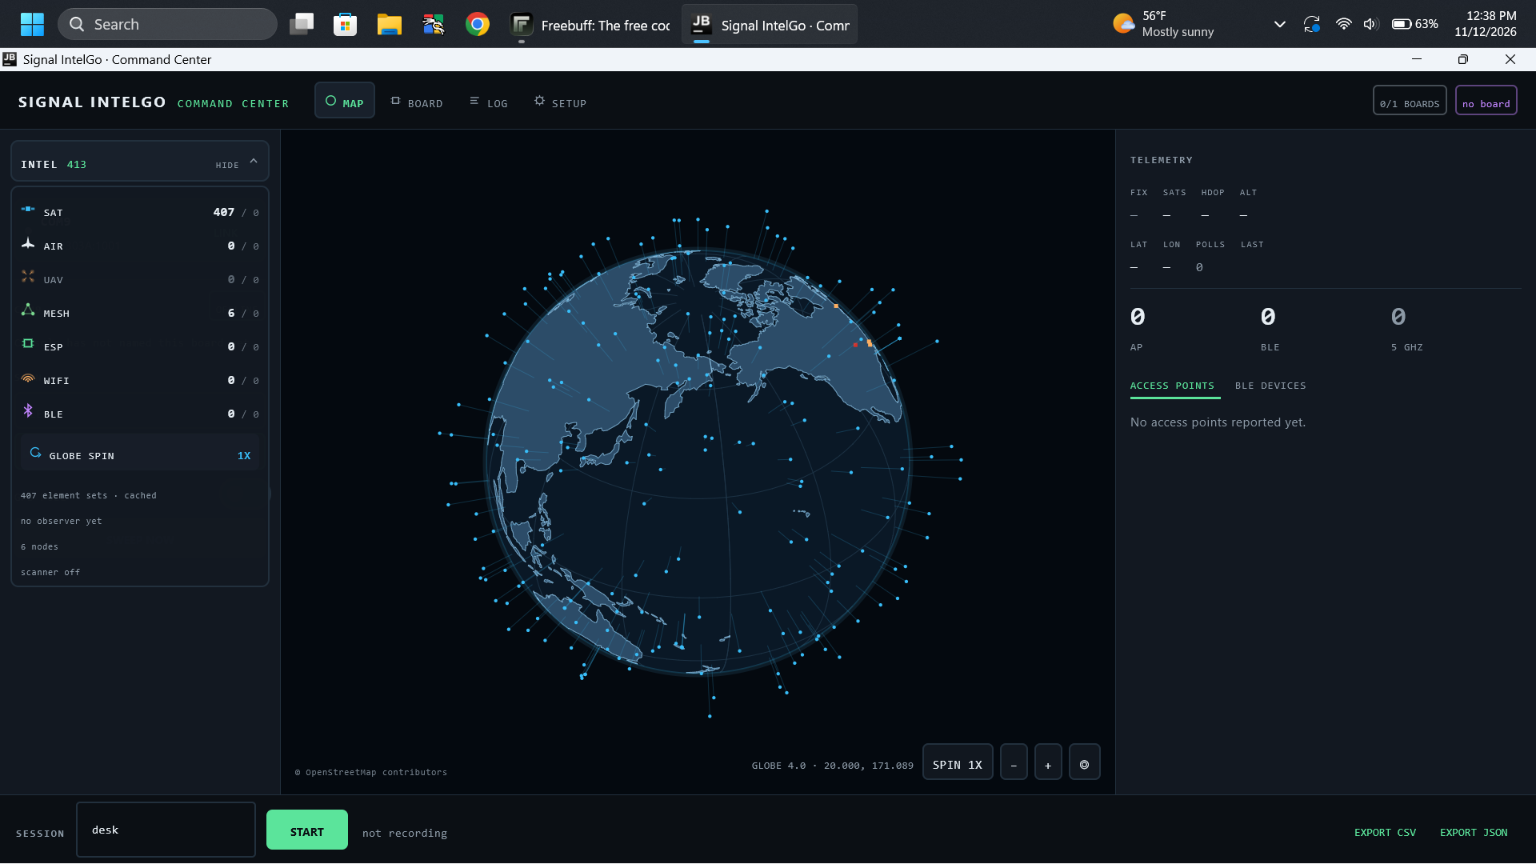
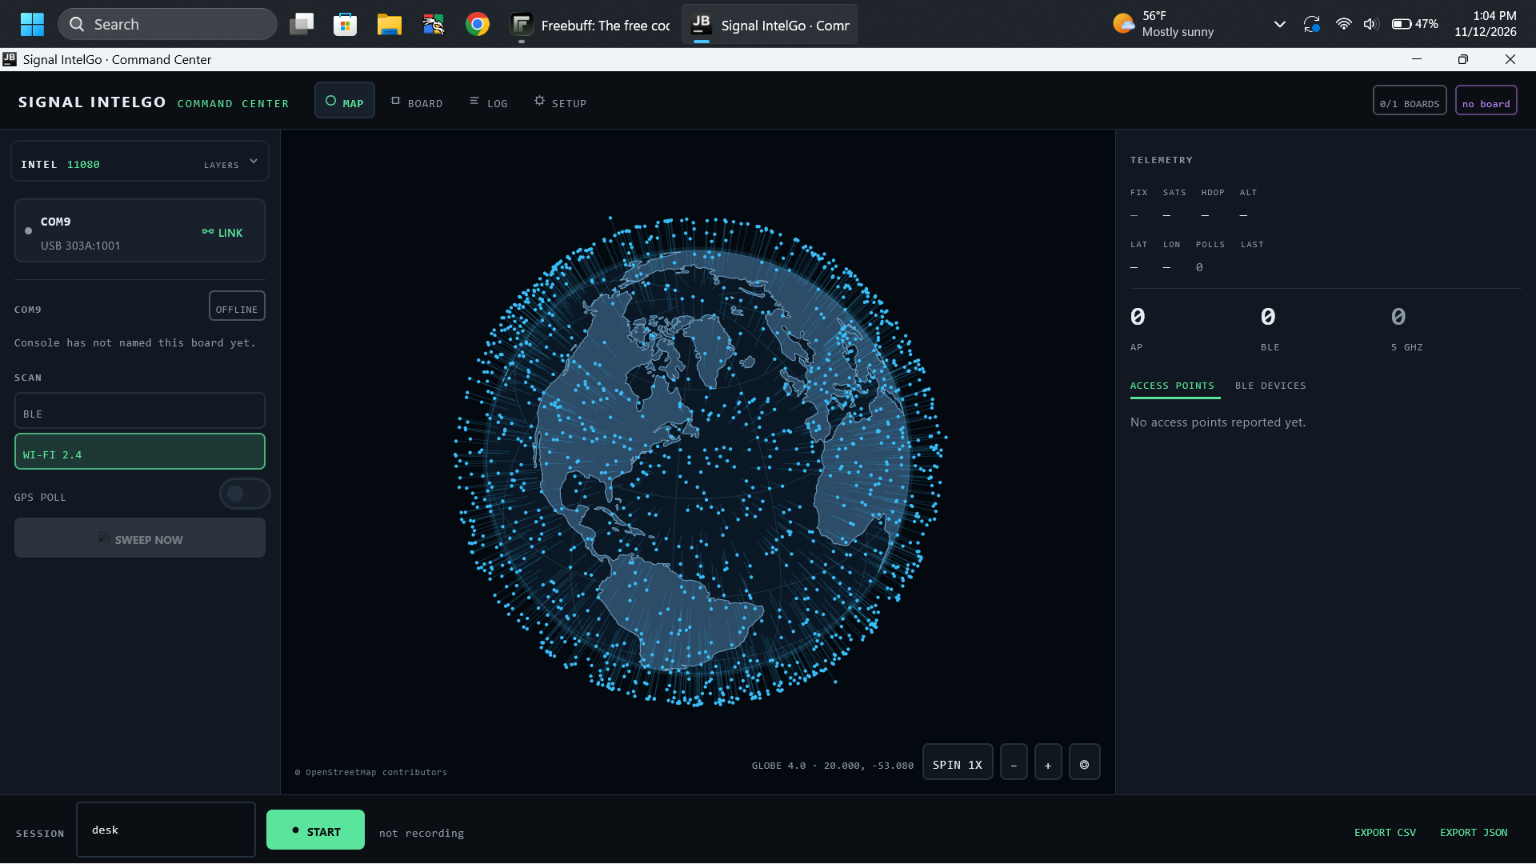
Carry the whole satellite catalogue on the desk, with the chips to reach it
The desk stopped at six CelesTrak groups, 407 element sets, while the app
reaches eleven thousand. It now opens with the app's named groups plus
starlink and cubesat - 11,080 objects - and SETUP offers ALL for the full
catalogue.

Three things had to be true for that to be usable. A refused group is no
longer cached as if it had arrived, so a throttled fetch is retried instead
of hiding for six hours. CelesTrak answers 403 both to bursts and to a
repeat of an unchanged download, so requests are spaced and the
constellation supplemental files are used as a fallback. And the map samples
the shell above three thousand markers in catalogue order and skips anything
off screen, so eleven thousand satellites still turn with the globe.

The rail and session controls carry glyphs too, drawn on canvas like the
layer rows.

🤖 Generated with Codebuff

diff --git a/shared/src/main/java/dev/skyward/rf/sky/SatTracker.kt b/shared/src/main/java/dev/skyward/rf/sky/SatTracker.kt
@@ -5,6 +5,7 @@ import dev.skyward.rf.core.Geo
 import dev.skyward.rf.core.LatLon
 import dev.skyward.rf.core.SatView
 import kotlinx.coroutines.Dispatchers
+import kotlinx.coroutines.delay
 import kotlinx.coroutines.withContext
 import kotlinx.serialization.Serializable
 import okhttp3.OkHttpClient
@@ -33,7 +34,16 @@ class SatTracker(
         private const val CACHE_FILE = "tle_cache_v1.json"
         private const val MAX_AGE_MS = 6 * 60 * 60 * 1000L
         private const val BASE = "https://celestrak.org/NORAD/elements/gp.php"
-        private val KNOWN_GROUPS = listOf("stations", "visual", "weather", "gps-ops", "science", "amateur")
+
+        /** The constellation files: same objects, served separately from the GP endpoint. */
+        private const val SUPPLEMENTAL = "https://celestrak.org/NORAD/elements/supplemental/sup-gp.php"
+        // `active` is CelesTrak's whole tracked catalogue (15,880 element sets when this was
+        // written); starlink and cubesat are the two named constellations that take the total
+        // past eleven thousand on their own. A host that wants the full sky asks for `active`.
+        private val KNOWN_GROUPS = listOf(
+            "stations", "visual", "weather", "gps-ops", "science", "amateur",
+            "starlink", "cubesat", "active",
+        )
 
         /**
          * ZARYA, the station core: NORAD 25544, catalogue 1998-067A. This is the International
@@ -143,29 +153,33 @@ class SatTracker(
         }
         val collected = ArrayList<CachedTle>()
         val errors = ArrayList<String>()
-        for (group in wanted) {
-            val url = "$BASE?GROUP=$group&FORMAT=tle"
-            val req = Request.Builder().url(url).header("User-Agent", "Signal_IntelGo/1.0 (wardriving)").build()
-            runCatching {
-                http.newCall(req).execute().use { resp ->
-                    if (!resp.isSuccessful) {
-                        errors.add("$group: HTTP ${resp.code}")
-                        return@use
-                    }
-                    val body = resp.body?.string().orEmpty()
-                    val parsed = parseTle(body)
-                    if (parsed.isEmpty()) errors.add("$group: empty") else collected.addAll(parsed)
-                }
-            }.onFailure { errors.add("$group: ${it.message ?: "network error"}") }
+        // CelesTrak's `active` group already contains every object in the named groups, and it asks
+        // that its service not be hammered: one catalogue request replaces nine.
+        val fetched = if ("active" in wanted) listOf("active") else wanted
+        val arrived = ArrayList<String>(fetched.size)
+        for ((index, group) in fetched.withIndex()) {
+            // CelesTrak publishes a one-request-per-second limit and answers 403 to a burst.
+            // Asking for eight groups at once is exactly that burst, so they go out spaced.
+            if (index > 0) delay(1_200)
+            val result = fetchGroup(group)
+            if (result.sats.isEmpty()) {
+                errors.add("$group: ${result.note}")
+            } else {
+                collected.addAll(result.sats)
+                arrived.add(group)
+            }
         }
         // BIRDS-3 by catalogue number: it is not a CelesTrak group, and a 404 for a decayed
         // object is the expected answer rather than an error worth showing.
         collected.addAll(fetchBirds3())
         if (collected.isNotEmpty()) {
             val deduped = collapseIss(collected.associateBy { it.noradId }.values.toList())
+            // Only the groups that actually arrived are recorded. Recording the request instead
+            // meant a throttled group was cached as if it were there, and the six hour freshness
+            // check then kept the missing satellites missing.
             cache = CacheFile(
                 fetchedAt = System.currentTimeMillis(),
-                groups = wanted,
+                groups = arrived,
                 sats = deduped,
             )
             store.write(CACHE_FILE, cache)
@@ -182,6 +196,41 @@ class SatTracker(
             )
         }
     }
+
+    /**
+     * One group's element sets, with the constellation files as a fallback.
+     *
+     * CelesTrak rate-limits exactly the group the desk most wants: `starlink` answers 403 on the
+     * GP endpoint while every other group answers 200, and the same data is published as a
+     * supplemental file. A refused group is asked for there before it is called a failure.
+     */
+    private fun fetchGroup(group: String): GroupResult {
+        val direct = httpGet("$BASE?GROUP=$group&FORMAT=tle")
+        if (direct.sats.isNotEmpty()) return GroupResult(direct.sats, "${direct.sats.size}")
+        val supplemental = httpGet("$SUPPLEMENTAL?FILE=$group&FORMAT=tle")
+        if (supplemental.sats.isNotEmpty()) return GroupResult(supplemental.sats, "${supplemental.sats.size} supplemental")
+        // Both answers are reported: "403 then 403" and "200 with nothing in it" are different
+        // problems, and the note is the only place an operator can see which one happened.
+        return GroupResult(emptyList(), "${direct.note} / supplemental ${supplemental.note}")
+    }
+
+    private data class GroupResult(val sats: List<CachedTle>, val note: String)
+
+    private data class HttpResult(val sats: List<CachedTle>, val note: String)
+
+    private fun httpGet(url: String): HttpResult = runCatching {
+        val req = Request.Builder().url(url)
+            .header("User-Agent", "Signal_IntelGo/1.0 (wardriving)")
+            .build()
+        http.newCall(req).execute().use { resp ->
+            if (!resp.isSuccessful) {
+                HttpResult(emptyList(), "HTTP ${resp.code}")
+            } else {
+                val parsed = parseTle(resp.body?.string().orEmpty())
+                HttpResult(parsed, if (parsed.isEmpty()) "HTTP 200, no TLEs" else "HTTP 200")
+            }
+        }
+    }.getOrElse { HttpResult(emptyList(), it.message ?: "network error") }
 
     /** Asks for the three BIRDS-3 objects by catalogue number; usually returns nothing. */
     private fun fetchBirds3(): List<CachedTle> {

diff --git a/desktop/src/main/java/dev/skyward/rf/desktop/ui/CommandCenter.kt b/desktop/src/main/java/dev/skyward/rf/desktop/ui/CommandCenter.kt
@@ -416,7 +416,11 @@ private fun SensorsRail(
             SectionLabel("SENSORS")
             Spacer(Modifier.weight(1f))
             TextButton(onClick = { host.refresh() }) {
-                Text("REFRESH", color = Desk.accent, fontSize = 11.sp, fontFamily = Desk.mono)
+                Row(verticalAlignment = Alignment.CenterVertically) {
+                    LayerIcon(Glyph.SPIN, Desk.accent, 10.dp)
+                    Spacer(Modifier.width(5.dp))
+                    Text("REFRESH", color = Desk.accent, fontSize = 11.sp, fontFamily = Desk.mono)
+                }
             }
         }
         Spacer(Modifier.height(6.dp))
@@ -464,7 +468,11 @@ private fun PortRow(board: BoardState, selected: Boolean, onClick: () -> Unit, h
                 )
             }
             TextButton(onClick = { if (board.connected) host.disconnect(board.path) else host.connect(board.path) }) {
-                Text(if (board.connected) "STOP" else "LINK", color = if (board.connected) Desk.warn else Desk.accent, fontSize = 11.sp)
+                Row(verticalAlignment = Alignment.CenterVertically) {
+                    LayerIcon(Glyph.LINK, if (board.connected) Desk.warn else Desk.accent, 11.dp)
+                    Spacer(Modifier.width(5.dp))
+                    Text(if (board.connected) "STOP" else "LINK", color = if (board.connected) Desk.warn else Desk.accent, fontSize = 11.sp)
+                }
             }
         }
     }
@@ -530,7 +538,11 @@ private fun ActiveBoardCard(board: BoardState?, host: SensorHost) {
             contentPadding = PaddingValues(horizontal = 12.dp, vertical = 6.dp),
             modifier = Modifier.fillMaxWidth(),
         ) {
-            Text("SWEEP NOW", fontSize = 11.sp, fontWeight = FontWeight.Bold)
+            Row(verticalAlignment = Alignment.CenterVertically) {
+                LayerIcon(Glyph.SWEEP, Desk.bg, 12.dp)
+                Spacer(Modifier.width(6.dp))
+                Text("SWEEP NOW", fontSize = 11.sp, fontWeight = FontWeight.Bold)
+            }
         }
         if (board.lastLine.isNotBlank()) {
             Spacer(Modifier.height(8.dp))
@@ -913,7 +925,9 @@ private fun SetupPane(modifier: Modifier, sky: DeskSky, skyState: DeskSky.State,
         SectionLabel("SATELLITE GROUPS")
         Spacer(Modifier.height(8.dp))
         Row {
-            listOf("stations", "visual", "weather", "gps-ops", "science", "amateur").forEach { group ->
+            // The app's whole list, including the two constellations that carry it past eleven
+            // thousand objects, plus CelesTrak's full catalogue as one switch.
+            listOf("stations", "visual", "weather", "gps-ops", "science", "amateur", "starlink", "cubesat", "active").forEach { group ->
                 val on = group in skyState.groups
                 Box(
                     Modifier
@@ -923,7 +937,12 @@ private fun SetupPane(modifier: Modifier, sky: DeskSky, skyState: DeskSky.State,
                         .clickable { sky.toggleGroup(group) }
                         .padding(horizontal = 10.dp, vertical = 6.dp),
                 ) {
-                    Text(group, color = if (on) Desk.cyan else Desk.dim, fontSize = 11.sp, fontFamily = Desk.mono)
+                    Text(
+                        if (group == "active") "ALL" else group,
+                        color = if (on) Desk.cyan else Desk.dim,
+                        fontSize = 11.sp,
+                        fontFamily = Desk.mono,
+                    )
                 }
             }
         }
@@ -1014,7 +1033,11 @@ private fun SessionBar(
             ),
             shape = RoundedCornerShape(6.dp),
         ) {
-            Text(if (liveSince == null) "START" else "STOP", fontSize = 11.sp, fontWeight = FontWeight.Bold)
+            Row(verticalAlignment = Alignment.CenterVertically) {
+                LayerIcon(Glyph.RECORD, if (liveSince == null) Desk.bg else Color.White, 10.dp)
+                Spacer(Modifier.width(6.dp))
+                Text(if (liveSince == null) "START" else "STOP", fontSize = 11.sp, fontWeight = FontWeight.Bold)
+            }
         }
         Spacer(Modifier.width(14.dp))
         Text(

diff --git a/desktop/src/main/java/dev/skyward/rf/desktop/ui/LayerIcons.kt b/desktop/src/main/java/dev/skyward/rf/desktop/ui/LayerIcons.kt
@@ -26,7 +26,10 @@ import kotlin.math.sin
  * a plane, a drone, a mesh, a board, Wi-Fi and Bluetooth - as strokes on a canvas, so a row can be
  * read at a glance without a font or an icon dependency.
  */
-enum class Glyph { SAT, AIR, UAV, MESH, ESP, WIFI, BLE, SPIN, CHEVRON, MAP, BOARD, LOG, SETUP }
+enum class Glyph {
+    SAT, AIR, UAV, MESH, ESP, WIFI, BLE, SPIN, CHEVRON, MAP, BOARD, LOG, SETUP,
+    LINK, SWEEP, RECORD, EXPORT,
+}
 
 @Composable
 fun LayerIcon(glyph: Glyph, color: Color, size: Dp = 14.dp, filled: Boolean = true) {
@@ -176,6 +179,46 @@ private fun DrawScope.drawGlyph(glyph: Glyph, color: Color, filled: Boolean) {
                 drawLine(color, Offset(cx - s * 0.32f, y), Offset(cx - s * 0.32f + s * f, y),
                     stroke.width * 0.9f, StrokeCap.Round)
             }
+        }
+
+        // Two ends meeting: the serial link.
+        Glyph.LINK -> {
+            drawRect(color, topLeft = Offset(cx - s * 0.44f, cy - s * 0.14f), size = Size(s * 0.26f, s * 0.28f), style = stroke)
+            drawRect(color, topLeft = Offset(cx + s * 0.18f, cy - s * 0.14f), size = Size(s * 0.26f, s * 0.28f), style = stroke)
+            drawLine(color, Offset(cx - s * 0.18f, cy), Offset(cx + s * 0.18f, cy), stroke.width * 0.9f)
+        }
+
+        // A sweep going out: three arcs and the beam.
+        Glyph.SWEEP -> {
+            val origin = Offset(cx - s * 0.3f, cy + s * 0.3f)
+            for (i in 1..3) {
+                val r = s * 0.28f * i
+                drawArc(
+                    color = color.copy(alpha = if (i == 1) 1f else 0.55f),
+                    startAngle = -90f,
+                    sweepAngle = 90f,
+                    useCenter = false,
+                    topLeft = Offset(origin.x - r, origin.y - r),
+                    size = Size(r * 2, r * 2),
+                    style = Stroke(width = stroke.width * 0.7f, cap = StrokeCap.Round),
+                )
+            }
+            drawLine(color, origin, Offset(origin.x + s * 0.34f, origin.y - s * 0.34f), stroke.width * 0.9f, StrokeCap.Round)
+        }
+
+        // A record dot.
+        Glyph.RECORD -> drawCircle(color, radius = s * 0.3f, center = Offset(cx, cy))
+
+        // An arrow leaving the box.
+        Glyph.EXPORT -> {
+            drawLine(color, Offset(cx, cy - s * 0.36f), Offset(cx, cy + s * 0.12f), stroke.width * 0.9f, StrokeCap.Round)
+            val head = Path().apply {
+                moveTo(cx - s * 0.18f, cy - s * 0.02f)
+                lineTo(cx, cy + s * 0.16f)
+                lineTo(cx + s * 0.18f, cy - s * 0.02f)
+            }
+            drawPath(head, color, style = Stroke(width = stroke.width * 0.9f, cap = StrokeCap.Round))
+            drawLine(color.copy(alpha = 0.7f), Offset(cx - s * 0.34f, cy + s * 0.34f), Offset(cx + s * 0.34f, cy + s * 0.34f), stroke.width * 0.8f, StrokeCap.Round)
         }
 
         // A gear's ring with teeth.

diff --git a/desktop/src/main/java/dev/skyward/rf/desktop/ui/MapView.kt b/desktop/src/main/java/dev/skyward/rf/desktop/ui/MapView.kt
@@ -408,6 +408,10 @@ private fun DrawScope.drawMap(
         pt[0] = fx + (gx - fx) * t
         pt[1] = fy + (gy - fy) * t
         pt[2] = if (t <= 0.02f) 1f else (1f - (1f - front.coerceIn(0.0, 1.0).toFloat()) * t)
+        // The whole catalogue is fifteen thousand markers; one that lands outside the canvas
+        // still costs a draw call, and that is the difference between a spinning globe and a
+        // slideshow. The margin keeps arrows and links that start just off the edge intact.
+        if (pt[0] < -60f || pt[0] > width + 60f || pt[1] < -60f || pt[1] > height + 60f) return false
         return pt[2] > 0.02f
     }
 
@@ -486,9 +490,15 @@ private fun DrawScope.drawMap(
     }
 
     // ---- satellites, lifted by their altitude on the ball and flat on the map ----
-    sats.forEach { sat ->
+    // Above a few thousand the catalogue is sampled rather than drawn whole, the way the phone's
+    // map samples it: the count stays the true total, and the picture stays a picture. The step is
+    // taken in catalogue order, so the same satellites are plotted on every tick instead of a
+    // different random subset popping in and out.
+    val satStep = if (sats.size > 3_000) sats.size / 3_000 + 1 else 1
+    sats.forEachIndexed { index, sat ->
+        if (index % satStep != 0) return@forEachIndexed
         val lift = (ln(1.0 + sat.altKm * 1000.0 / 500.0) * 0.022).coerceIn(0.0, 0.30)
-        if (!place(sat.lat, sat.lon, lift)) return@forEach
+        if (!place(sat.lat, sat.lon, lift)) return@forEachIndexed
         val at = Offset(pt[0], pt[1])
         if (t > 0.5f && place(sat.lat, sat.lon, 0.0)) {
             drawLine(Desk.cyan.copy(alpha = 0.20f), Offset(pt[0], pt[1]), at, 1f)

diff --git a/desktop/src/main/java/dev/skyward/rf/desktop/sky/DeskSky.kt b/desktop/src/main/java/dev/skyward/rf/desktop/sky/DeskSky.kt
@@ -81,7 +81,17 @@ class DeskSky(
     @Volatile
     private var meshWanted = false
 
-    private val _state = MutableStateFlow(State(groups = tracker.knownGroups().toSet()))
+    /**
+     * The catalogue the desk opens with: the phone's named groups plus the two constellations
+     * that carry the count past eleven thousand. CelesTrak's `active` group is deliberately not
+     * in here - it is the whole catalogue in one request, which is what trips its rate limit -
+     * but it stays available as the ALL chip in SETUP.
+     */
+    private val defaultGroups = setOf(
+        "stations", "visual", "weather", "gps-ops", "science", "amateur", "starlink", "cubesat",
+    )
+
+    private val _state = MutableStateFlow(State(groups = defaultGroups))
     val state: StateFlow<State> = _state
 
     private var observer: LatLon? = null
@@ -127,7 +137,10 @@ class DeskSky(
             while (isActive) {
                 val positions = runCatching { tracker.positions(observer) }.getOrDefault(emptyList())
                 _state.update { it.copy(sats = positions, lastTick = System.currentTimeMillis()) }
-                delay(4_000)
+                // A 700 object sky is cheap enough to redraw every few seconds; the whole
+                // catalogue is fifteen thousand propagations per tick, so it is given a longer
+                // cadence rather than pinning a core for the picture to move imperceptibly.
+                delay(if (positions.size > 5_000) 8_000 else 4_000)
             }
         }
         // The aircraft feed is a shared community service: one request a minute is plenty for a

diff --git a/README.md b/README.md
@@ -224,8 +224,11 @@ The tabs are the app's own four, with the app's own glyphs. **MAP** is the globe
 own momentum (`SPIN OFF` / `1X` / `3X`, the phone's 4.5 degrees per second per step) and, zoomed
 past the hand-off, OpenStreetMap street tiles: the ball's radius is derived from the same zoom as
 the map's scale and the two meet where they agree on pixels per degree, so the curl into a plane
-has nothing to jump. Layers are satellites propagated locally from CelesTrak element sets,
-aircraft from api.adsb.lol's 30 mile ring, the Wi-Fi and BLE the desk's own boards hear at the fix
+has nothing to jump. Layers are satellites propagated locally from CelesTrak element sets - the named groups plus
+`starlink` and `cubesat`, which is 11,080 objects, with `ALL` for CelesTrak's whole catalogue;
+above three thousand markers the shell is sampled in catalogue order and anything off screen is
+skipped, so eleven thousand satellites still turn with the globe - aircraft from api.adsb.lol's
+30 mile ring, the Wi-Fi and BLE the desk's own boards hear at the fix
 the board reported, mesh nodes from the same Meshtastic and MeshCore MQTT brokers the app reads,
 and BLE Remote ID drones decoded by the app's own parser. **BOARD** is the console, **LOG** is what
 the session caught, and **SETUP** holds the observer, the feeds and the satellite groups.
